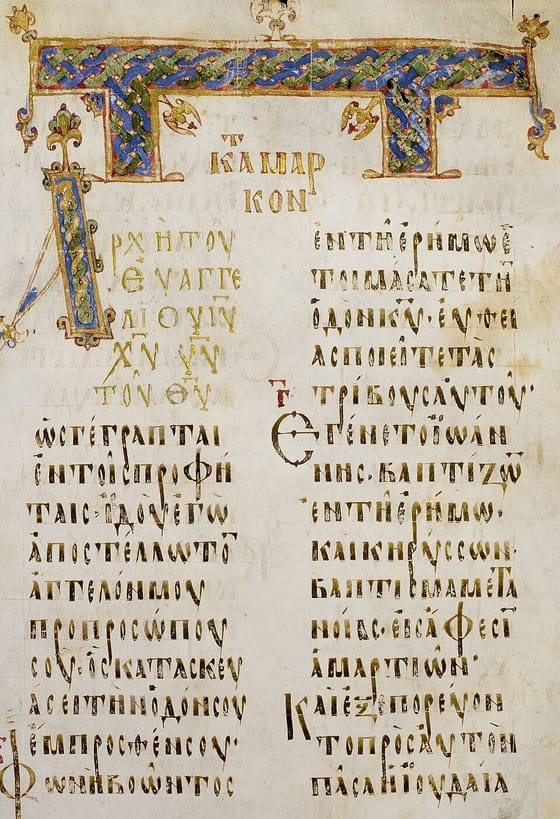
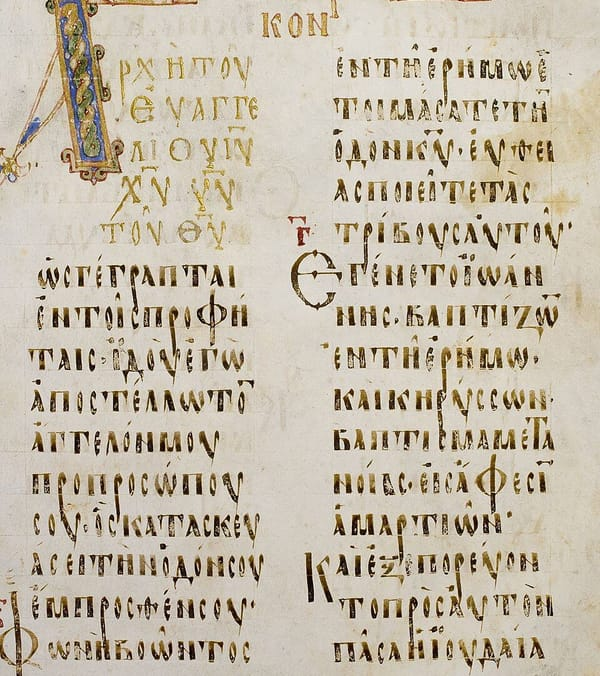
history: fix the Majority Text crop; text pages for Geneva and Bishops'
- Majority Text card: the Codex Boreelianus image was cropping to its
  illuminated headpiece, so the banner read as abstract ornament. The
  source now drops the headpiece; the banner shows the columns of Greek.
  optimize-history-images.mjs gains a `crop` option and finds a kept
  original by stem, whatever its extension.
- Geneva 1560: keeps the Red Sea title woodcut and adds an inside page
  (1 Samuel) — numbered verses boxed in by the margin notes that made it
  the Puritans' Bible and the bishops' problem.
- Bishops' Bible: the Elizabeth I frontispiece is replaced by a page of
  text — Genesis 3–4 in black letter, from a 1602 printing (the last
  before the KJV; no page scan of the 1568 first edition is available).
- Coverdale and Great Bible keep their title images: still no
  public-domain text-page scan for either.

Geneva and Bishops' page scans via the Internet Archive.

diff --git a/lib/englishBibleHistory.ts b/lib/englishBibleHistory.ts
@@ -69,12 +69,12 @@ export const historyImages: Record<string, HistoryImage> = {
   },
   bishops1568: {
     src: "/history/bishops-bible-1568.jpg",
-    width: 660,
-    height: 967,
-    alt: "An engraved portrait of Queen Elizabeth I in a decorated oval frame, flanked by allegorical figures, from the 1568 Bishops' Bible.",
+    width: 640,
+    height: 904,
+    alt: "A page of the Bishops' Bible: Genesis 3–4 in black-letter type, two columns, numbered verses, with notes in the margins.",
     caption:
-      "Elizabeth I on the title page of the 1568 Bishops’ Bible — the Church of England’s answer to the Geneva Bible, and the text the King James translators were told to revise.",
-    credit: "Engraving by Franz Hogenberg, 1568 — public domain.",
+      "The Bishops’ Bible — Genesis 3 and 4, the curse and the first murder. The Church of England’s official reply to the Geneva Bible, and the text the King James translators were told to revise. Shown in a later printing.",
+    credit: "London, 1602 printing of the 1568 translation — public domain, via the Internet Archive.",
   },
   estienne1551: {
     src: "/history/estienne-1551-nt.jpg",
@@ -96,9 +96,9 @@ export const historyImages: Record<string, HistoryImage> = {
   },
   boreelianus: {
     src: "/history/codex-boreelianus.jpg",
-    width: 560,
-    height: 819,
-    alt: "An illuminated Byzantine Gospel page: the start of Mark under a decorated headpiece, with a large ornamented initial beside columns of Greek majuscule.",
+    width: 600,
+    height: 676,
+    alt: "Two columns of Greek from Codex Boreelianus — the opening of Mark in a large uncial hand, with a gold-and-blue decorated initial.",
     caption:
       "Codex Boreelianus, a ninth-century Byzantine Gospel book — the kind of later, majority manuscript the Byzantine and Majority-Text readings come from.",
     credit: "9th century — public domain.",
@@ -129,6 +129,15 @@ export const historyImages: Record<string, HistoryImage> = {
     caption:
       "The title-page woodcut of the 1560 Geneva Bible: Israel at the Red Sea, the pillar of cloud between them and Pharaoh’s army — the Exodus scene the Geneva exiles chose for their Bible.",
     credit: "Geneva, 1560 — public domain.",
+  },
+  geneva1560Text: {
+    src: "/history/geneva-1560-text.jpg",
+    width: 640,
+    height: 830,
+    alt: "A page of the 1560 Geneva Bible in roman type — 1 Samuel, two columns of numbered verses hemmed in on both sides by dense explanatory notes.",
+    caption:
+      "And the inside: 1 Samuel in the 1560 Geneva Bible. The packed margin notes — a running commentary crowding every column — are what made it the Bible of the Puritans, and what the bishops set out to answer.",
+    credit: "Geneva, 1560 — public domain, via the Internet Archive.",
   },
   kjv1611: {
     src: "/history/kjv-1611-title-page.jpg",
@@ -229,7 +238,7 @@ export const timeline: TimelineEntry[] = [
     detail:
       "Made by English Protestants who had fled to Geneva. The first English Bible with numbered verses, printed in readable roman type, and heavily annotated — effectively the first study Bible. It was the Bible of Shakespeare, the Puritans, and the Mayflower.",
     major: true,
-    images: [historyImages.geneva1560],
+    images: [historyImages.geneva1560, historyImages.geneva1560Text],
   },
   {
     year: "1568",
